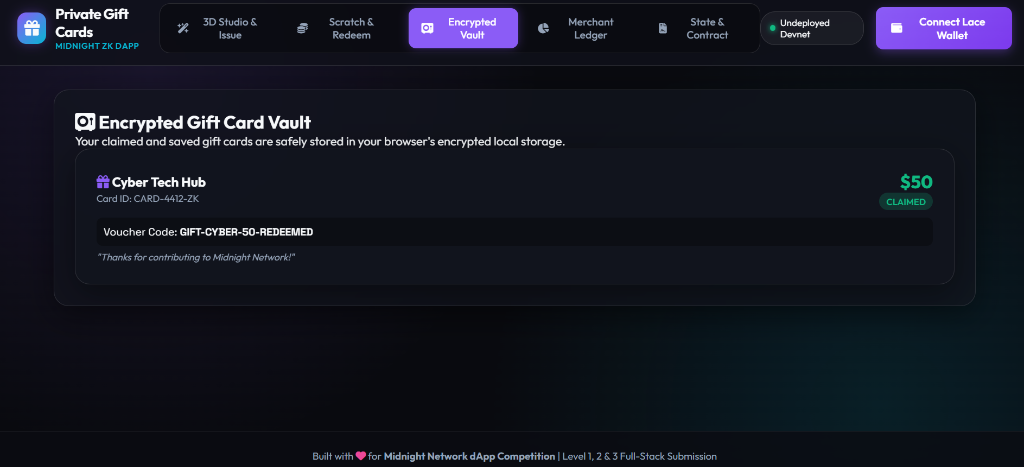
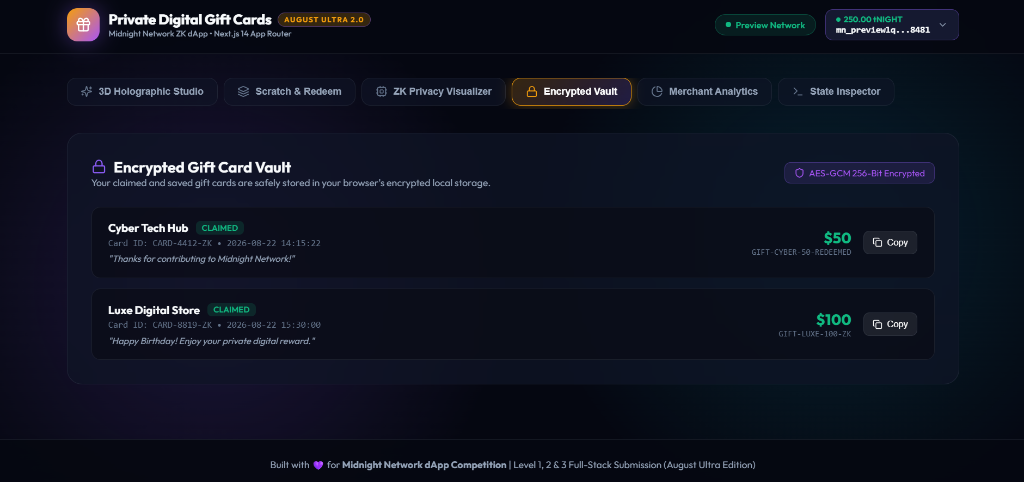
docs: update Encrypted Gift Card Vault screenshot and heading

diff --git a/README.md b/README.md
@@ -34,8 +34,8 @@
 ### 3. ZK Privacy Architecture Visualizer
 ![ZK Privacy Architecture Visualizer](assets/03-zk-privacy-visualizer.png)
 
-### 4. Encrypted Local Vault Tab
-![Encrypted Vault](assets/03-encrypted-vault.png)
+### 4. Encrypted Gift Card Vault
+![Encrypted Gift Card Vault](assets/03-encrypted-vault.png)
 
 ### 5. Merchant Analytics Ledger
 ![Merchant Ledger](assets/04-merchant-ledger.png)
